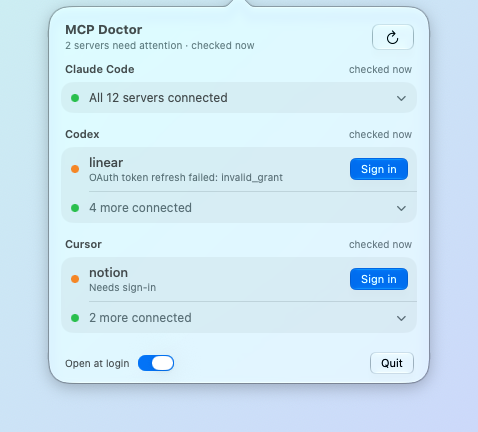
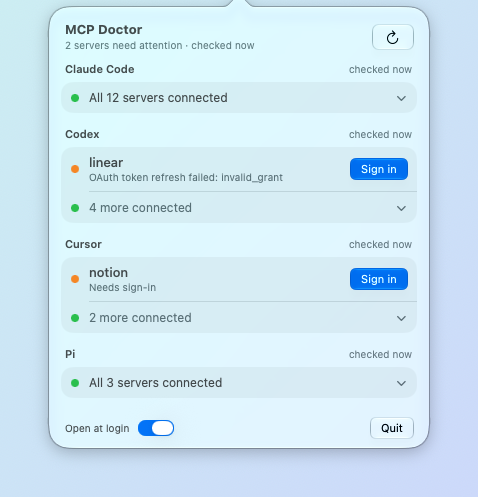
Add Pi as a harness
Pi (`pi`, @earendil-works/pi-coding-agent) has built-in MCP support, so
its servers belong in the panel next to Claude Code, Codex and Cursor.

The adapter reads `~/.pi/agent/mcp.json` (or `PI_CODING_AGENT_DIR`), checks
health with `pi mcp list --json`, and signs in with `pi mcp login <name>`,
which finishes on the browser callback without a terminal. The list exits
with status 1 whenever a server isn't connected, so its JSON is read
regardless of the exit status. Servers with their own Authorization
header don't offer sign-in, since Pi only uses OAuth without one.

diff --git a/Tests/MCPDoctorCoreTests/AdapterParsingTests.swift b/Tests/MCPDoctorCoreTests/AdapterParsingTests.swift
@@ -149,3 +149,122 @@ import Testing
         #expect(adapter.authFileURL.path == "/Users/jane.doe/.cursor/projects/Users-jane-doe/mcp-auth.json")
     }
 }
+
+@Suite struct PiParsingTests {
+    @Test func parsesList() throws {
+        let json = """
+        {"servers":[
+          {"name":"assistant","scope":"global","source":"/Users/me/.pi/agent/mcp.json","enabled":true,
+           "exposure":"deferred","transport":"https://assistant.example.com/mcp","state":"needs-auth","tools":[]},
+          {"name":"database","scope":"global","enabled":true,"exposure":"deferred",
+           "transport":"~/.pi/agent/bin/db-mcp.sh","state":"connected","tools":[{"name":"query"}]},
+          {"name":"logs","enabled":true,"transport":"https://logs.example.com/mcp","state":"failed",
+           "tools":[],"error":"MCP HTTP request failed with status 503: no healthy upstream"},
+          {"name":"code","enabled":true,"transport":"https://code.example.com/mcp","state":"connected","tools":[]},
+          {"name":"old","enabled":false,"transport":"npx old-mcp","state":"disconnected","tools":[]}
+        ],"errors":[]}
+        """
+        let list = try #require(PiAdapter.parseList(Data(json.utf8)))
+        let servers = list.servers
+        #expect(servers.map(\.name) == ["assistant", "database", "logs", "code", "old"])
+        #expect(servers.map(\.status) == [.needsAuth, .ok, .failed, .ok, .disabled])
+        #expect(servers.map(\.transport) == [.http, .stdio, .http, .http, .stdio])
+        #expect(servers[1].target == "~/.pi/agent/bin/db-mcp.sh")
+        #expect(servers[2].detail == "MCP HTTP request failed with status 503: no healthy upstream")
+        #expect(servers.map(\.canSignIn) == [true, false, false, false, false])
+        #expect(list.errors.isEmpty)
+    }
+
+    @Test(arguments: [
+        ("connected", nil, ServerStatus.ok),
+        ("needs-auth", nil, .needsAuth),
+        ("failed", "HTTP 401 Unauthorized", .needsAuth),
+        ("failed", "spawn ENOENT", .failed),
+        ("connecting", nil, .unknown),
+        ("closed", nil, .unknown),
+    ])
+    func parsesState(state: String, error: String?, expected: ServerStatus) {
+        let entry = PiAdapter.ListResponse.Entry(name: "x", enabled: true, transport: nil, state: state, error: error)
+        #expect(PiAdapter.status(for: entry).0 == expected)
+    }
+
+    @Test func rejectsTextOutput() {
+        #expect(PiAdapter.parseList(Data("error: unknown command 'mcp'\n".utf8)) == nil)
+    }
+
+    @Test func readsConfigAndSkipsHeaderAuth() async throws {
+        let home = FileManager.default.temporaryDirectory.appending(path: UUID().uuidString)
+        let agent = home.appending(path: ".pi/agent")
+        try FileManager.default.createDirectory(at: agent, withIntermediateDirectories: true)
+        defer { try? FileManager.default.removeItem(at: home) }
+        let config = """
+        {"mcpServers":{
+          "assistant":{"url":"https://assistant.example.com/mcp"},
+          "code":{"url":"https://code.example.com/mcp","headers":{"Authorization":"!echo Bearer $(gh auth token)"}},
+          "database":{"command":"~/.pi/agent/bin/db-mcp.sh","enabled":false}
+        }}
+        """
+        try Data(config.utf8).write(to: agent.appending(path: "mcp.json"))
+        let adapter = PiAdapter(home: home, environment: [:])
+        let servers = await adapter.configuredServers(env: ShellEnvironment(variables: [:]))
+        #expect(servers.map(\.name) == ["assistant", "code", "database"])
+        #expect(servers.map(\.canSignIn) == [true, false, false])
+        #expect(servers.map(\.enabled) == [true, true, false])
+        #expect(servers[2].transport == .stdio)
+    }
+
+    @Test func followsAgentDirectoryOverride() {
+        let home = URL(fileURLWithPath: "/Users/jane.doe")
+        #expect(PiAdapter(home: home, environment: [:]).authFileURL.path == "/Users/jane.doe/.pi/agent/mcp-auth.json")
+        let custom = PiAdapter(home: home, environment: ["PI_CODING_AGENT_DIR": "~/pi-work"])
+        #expect(custom.configURL.path == "/Users/jane.doe/pi-work/mcp.json")
+        let absolute = PiAdapter(home: home, environment: ["PI_CODING_AGENT_DIR": "/opt/pi"])
+        #expect(absolute.signInFiles.map(\.path) == ["/opt/pi/mcp-auth.json"])
+    }
+
+    /// `pi mcp list` exits with status 1 whenever a server isn't connected; the JSON still counts.
+    @Test func deepCheckReadsJSONDespiteFailureStatus() async throws {
+        let bin = FileManager.default.temporaryDirectory.appending(path: UUID().uuidString)
+        try FileManager.default.createDirectory(at: bin, withIntermediateDirectories: true)
+        defer { try? FileManager.default.removeItem(at: bin) }
+        let script = """
+        #!/bin/sh
+        echo '{"servers":[{"name":"assistant","enabled":true,"transport":"https://a.example.com/mcp","state":"needs-auth","tools":[]}],"errors":[]}'
+        exit 1
+        """
+        FileManager.default.createFile(atPath: bin.appending(path: "pi").path, contents: Data(script.utf8), attributes: [.posixPermissions: 0o755])
+        let adapter = PiAdapter(home: bin, environment: [:])
+        let check = try await adapter.deepCheck(env: ShellEnvironment(variables: ["PATH": bin.path]))
+        #expect(check.servers.map(\.status) == [.needsAuth])
+    }
+
+    @Test func deepCheckExplainsOldVersions() async throws {
+        let bin = FileManager.default.temporaryDirectory.appending(path: UUID().uuidString)
+        try FileManager.default.createDirectory(at: bin, withIntermediateDirectories: true)
+        defer { try? FileManager.default.removeItem(at: bin) }
+        let script = "#!/bin/sh\necho \"error: unknown command 'mcp'\" >&2\nexit 1\n"
+        FileManager.default.createFile(atPath: bin.appending(path: "pi").path, contents: Data(script.utf8), attributes: [.posixPermissions: 0o755])
+        let adapter = PiAdapter(home: bin, environment: [:])
+        await #expect(throws: AdapterError.self) {
+            try await adapter.deepCheck(env: ShellEnvironment(variables: ["PATH": bin.path]))
+        }
+        let message = Compatibility.explain("error: unknown command 'mcp'", harness: .pi, action: "report MCP server status")
+        #expect(message.contains("Update Pi"))
+    }
+
+    @Test func signsInWithPiMCPLogin() throws {
+        let bin = FileManager.default.temporaryDirectory.appending(path: UUID().uuidString)
+        try FileManager.default.createDirectory(at: bin, withIntermediateDirectories: true)
+        defer { try? FileManager.default.removeItem(at: bin) }
+        let pi = bin.appending(path: "pi")
+        FileManager.default.createFile(atPath: pi.path, contents: Data("#!/bin/sh\n".utf8), attributes: [.posixPermissions: 0o755])
+        let home = URL(fileURLWithPath: "/Users/jane.doe")
+        let server = MCPServer(harness: .pi, name: "assistant", transport: .http, status: .needsAuth, canSignIn: true)
+        let invocation = try #require(
+            PiAdapter(home: home, environment: [:]).signInInvocation(for: server, env: ShellEnvironment(variables: ["PATH": bin.path]))
+        )
+        #expect(invocation.arguments == ["mcp", "login", "assistant"])
+        #expect(invocation.workingDirectory == home)
+        #expect(!invocation.needsTerminal)
+    }
+}

diff --git a/Sources/MCPDoctorCore/Adapters/PiAdapter.swift b/Sources/MCPDoctorCore/Adapters/PiAdapter.swift
@@ -1,0 +1,141 @@
+import Foundation
+
+/// Pi (`pi` CLI, `@earendil-works/pi-coding-agent`).
+///
+/// - Config: `~/.pi/agent/mcp.json`, or `$PI_CODING_AGENT_DIR/mcp.json` when that's set.
+/// - Health: `pi mcp list --json` (~3 s). Pi connects to every enabled server, refreshing tokens
+///   itself, and prints each server's state. It exits with status 1 whenever a server isn't
+///   connected, so the JSON on stdout is read regardless of the exit status.
+/// - Sign-in: `pi mcp login <name>`. Without a terminal it opens the browser and finishes on the
+///   browser's callback, so it runs in the background like the other harnesses.
+public struct PiAdapter: HarnessAdapter {
+    public let harness = Harness.pi
+    public let home: URL
+    let agentDirectory: URL
+
+    public init(home: URL, environment: [String: String] = ProcessInfo.processInfo.environment) {
+        self.home = home
+        agentDirectory = Self.agentDirectory(home: home, environment: environment)
+    }
+
+    static func agentDirectory(home: URL, environment: [String: String]) -> URL {
+        guard let custom = environment["PI_CODING_AGENT_DIR"], !custom.isEmpty else {
+            return home.appending(path: ".pi/agent")
+        }
+        if custom == "~" { return home }
+        if custom.hasPrefix("~/") { return home.appending(path: String(custom.dropFirst(2))) }
+        return URL(fileURLWithPath: custom)
+    }
+
+    var configURL: URL { agentDirectory.appending(path: "mcp.json") }
+    var authFileURL: URL { agentDirectory.appending(path: "mcp-auth.json") }
+
+    public var watchedFiles: [URL] { [configURL] }
+    public var signInFiles: [URL] { [authFileURL] }
+
+    public func configuredServers(env: ShellEnvironment) async -> [ConfiguredServer] {
+        // The CLI runs with the login-shell environment, which may point Pi elsewhere.
+        let directory = env.variables["PI_CODING_AGENT_DIR"] == nil
+            ? agentDirectory
+            : Self.agentDirectory(home: home, environment: env.variables)
+        let config = directory.appending(path: "mcp.json")
+        guard let servers = JSONFile.object(at: config)?["mcpServers"] as? [String: Any] else { return [] }
+        return servers.keys.sorted().compactMap { name in
+            guard let entry = servers[name] as? [String: Any] else { return nil }
+            let url = entry["url"] as? String
+            let headers = entry["headers"] as? [String: Any] ?? [:]
+            return ConfiguredServer(
+                name: name,
+                transport: url == nil ? .stdio : .http,
+                target: url ?? entry["command"] as? String,
+                enabled: (entry["enabled"] as? Bool) != false,
+                canSignIn: url != nil && !Self.hasAuthorizationHeader(headers)
+            )
+        }
+    }
+
+    public func deepCheck(env: ShellEnvironment) async throws -> DeepCheck {
+        let executable = try requireExecutable(env)
+        let startedAt = Date.now
+        let result = await CommandRunner.run(
+            executable,
+            arguments: ["mcp", "list", "--json"],
+            environment: env.variables,
+            workingDirectory: home,
+            timeout: 90,
+            qualityOfService: .background
+        )
+        if result.launchError != nil || result.timedOut {
+            throw AdapterError.commandFailed(result.failureSummary)
+        }
+        guard let list = Self.parseList(result.stdout) else {
+            if !result.succeeded, !result.output.contains("{") {
+                throw AdapterError.commandFailed(result.failureSummary)
+            }
+            throw AdapterError.unreadableOutput(harness: harness, command: "pi mcp list --json")
+        }
+        if list.servers.isEmpty, let configError = list.errors.first {
+            throw AdapterError.commandFailed(configError)
+        }
+        return DeepCheck(servers: list.servers, startedAt: startedAt)
+    }
+
+    /// Pi signs in with OAuth only when the server has no `Authorization` header of its own.
+    static func hasAuthorizationHeader(_ headers: [String: Any]) -> Bool {
+        headers.keys.contains { $0.lowercased() == "authorization" }
+    }
+
+    // MARK: - Parsing
+
+    struct ListResponse: Decodable {
+        struct Entry: Decodable {
+            let name: String
+            let enabled: Bool?
+            /// The URL of an HTTP server, or the command of a stdio server.
+            let transport: String?
+            let state: String?
+            let error: String?
+        }
+
+        let servers: [Entry]
+        let errors: [String]?
+    }
+
+    static func parseList(_ data: Data) -> (servers: [CheckedServer], errors: [String])? {
+        guard let list = try? JSONDecoder().decode(ListResponse.self, from: data) else { return nil }
+        let servers = list.servers.map { entry in
+            let isHTTP = entry.transport.map { $0.hasPrefix("http://") || $0.hasPrefix("https://") } ?? false
+            let (status, detail) = status(for: entry)
+            return CheckedServer(
+                name: entry.name,
+                transport: isHTTP ? .http : .stdio,
+                target: entry.transport,
+                status: status,
+                detail: detail,
+                // The list doesn't say whether a server uses OAuth or its own headers; mcp.json
+                // does. Only a server Pi says needs sign-in is known to use OAuth.
+                canSignIn: isHTTP && entry.state == "needs-auth"
+            )
+        }
+        return (servers, list.errors ?? [])
+    }
+
+    /// Pi's states: `connecting`, `connected`, `disconnected`, `needs-auth`, `failed` and `closed`.
+    static func status(for entry: ListResponse.Entry) -> (ServerStatus, String?) {
+        if entry.enabled == false || entry.state == "disabled" { return (.disabled, "Disabled in Pi") }
+        switch entry.state {
+        case "connected":
+            return (.ok, nil)
+        case "needs-auth":
+            return (.needsAuth, entry.error)
+        case "failed":
+            let detail = entry.error ?? "Failed to connect"
+            let lowered = detail.lowercased()
+            let authFailure = ["unauthorized", "401", "invalid_grant", "invalid_token", "oauth"]
+                .contains { lowered.contains($0) }
+            return (authFailure ? .needsAuth : .failed, detail)
+        default:
+            return (.unknown, entry.error ?? entry.state.map { "Pi reported \($0)" })
+        }
+    }
+}

diff --git a/Sources/MCPDoctorCore/Models.swift b/Sources/MCPDoctorCore/Models.swift
@@ -4,12 +4,14 @@ public enum Harness: String, CaseIterable, Sendable {
     case claudeCode = "claude-code"
     case codex
     case cursor
+    case pi
 
     public var displayName: String {
         switch self {
         case .claudeCode: "Claude Code"
         case .codex: "Codex"
         case .cursor: "Cursor"
+        case .pi: "Pi"
         }
     }
 
@@ -18,6 +20,7 @@ public enum Harness: String, CaseIterable, Sendable {
         case .claudeCode: "claude"
         case .codex: "codex"
         case .cursor: "cursor-agent"
+        case .pi: "pi"
         }
     }
 
@@ -27,6 +30,7 @@ public enum Harness: String, CaseIterable, Sendable {
         case .claudeCode: "2.1.310"
         case .codex: "0.164.0"
         case .cursor: "2026.10.19"
+        case .pi: "1.5.0"
         }
     }
 }

diff --git a/Sources/MCPDoctor/Demo.swift b/Sources/MCPDoctor/Demo.swift
@@ -39,6 +39,9 @@ extension Doctor {
                 DemoAdapter(harness: .cursor, servers: [
                     .http("notion", status: .needsAuth), .http("github"), .stdio("figma"),
                 ]),
+                DemoAdapter(harness: .pi, servers: [
+                    .http("github"), .http("sentry"), .stdio("playwright"),
+                ]),
             ],
             environment: ShellEnvironment(variables: [:])
         )

diff --git a/Sources/MCPDoctorCore/Doctor.swift b/Sources/MCPDoctorCore/Doctor.swift
@@ -47,6 +47,7 @@ public actor Doctor {
             ClaudeCodeAdapter(home: home),
             CodexAdapter(home: home),
             CursorAdapter(home: home),
+            PiAdapter(home: home),
         ])
     }
 

diff --git a/Sources/MCPDoctor/Scheduler.swift b/Sources/MCPDoctor/Scheduler.swift
@@ -27,6 +27,7 @@ final class Scheduler {
         case .claudeCode: 15 * 60
         case .codex: 10 * 60
         case .cursor: 15 * 60
+        case .pi: 15 * 60
         }
     }
 

diff --git a/README.md b/README.md
@@ -2,18 +2,18 @@
 
 # MCP Doctor
 
-A macOS menu bar app that tells you when an MCP server in Claude Code, Codex or Cursor needs you
-to sign in again, before an agent finds out halfway through a thread. It lets you sign in from the
-menu bar.
+A macOS menu bar app that tells you when an MCP server in Claude Code, Codex, Cursor or Pi needs
+you to sign in again, before an agent finds out halfway through a thread. It lets you sign in from
+the menu bar.
 
 - The icon turns orange and shows a count when something needs attention.
-- The panel always lists Claude Code, Codex and Cursor, so you can tell "all good" from "not
+- The panel always lists Claude Code, Codex, Cursor and Pi, so you can tell "all good" from "not
   checked". Problems come first with a **Sign in** button; a summary row such as "All 21 servers
   connected" expands to show the rest.
 - Organisation-provisioned claude.ai connectors that have never worked on this Mac are collapsed
   and don't count. Any server can be muted from its context menu.
 
-<p align="center"><img src="docs/screenshot.png" width="478" alt="The MCP Doctor panel: Claude Code all connected, one Codex and one Cursor server needing sign-in"></p>
+<p align="center"><img src="docs/screenshot.png" width="478" alt="The MCP Doctor panel: Claude Code and Pi all connected, one Codex and one Cursor server needing sign-in"></p>
 
 ## Requirements
 
@@ -26,6 +26,7 @@ menu bar.
 | Claude Code | 2.1.310 | `claude mcp list` and `claude mcp login` |
 | Codex CLI | 0.164.0 | `codex app-server` with `mcpServerStatus/list`, and `codex mcp login` |
 | Cursor CLI (`cursor-agent`) | 2026.10.19 | `cursor-agent mcp list` and `cursor-agent mcp login` |
+| Pi (`pi`, `@earendil-works/pi-coding-agent`) | 1.5.0 | `pi mcp list --json` and `pi mcp login` |
 
 Older versions may lack some of these. When that happens, the panel says which harness to update
 instead of showing a raw error.
@@ -53,9 +54,10 @@ model, so it uses none of your plan's usage.
 | Claude Code | `claude mcp list` (~6 s) | watches `~/.claude.json` and `~/.claude/mcp-needs-auth-cache.json`; reads token expiry from the `Claude Code-credentials` Keychain item | `claude mcp login <name>` |
 | Codex | `codex app-server` → `mcpServerStatus/list` (~2 s) | watches `~/.codex/config.toml` | `codex mcp login <name>` |
 | Cursor | `cursor-agent mcp list` (~2.5 s), run from your home folder | watches `~/.cursor/mcp.json` and the token file | `cursor-agent mcp login <name>` |
+| Pi | `pi mcp list --json` (~3 s) | watches `~/.pi/agent/mcp.json` and `mcp-auth.json` (or the folder in `PI_CODING_AGENT_DIR`) | `pi mcp login <name>`, which finishes in the browser |
 
-Checks run one at a time at background priority: Codex every 10 minutes, Cursor and Claude Code
-every 15. Claude Code's check runs with larger connection batches
+Checks run one at a time at background priority: Codex every 10 minutes, Cursor, Pi and Claude
+Code every 15. Claude Code's check runs with larger connection batches
 (`MCP_SERVER_CONNECTION_BATCH_SIZE`), which cuts it from ~24 s to ~6 s with ~60 servers. Checks
 also run after wake, when the network comes back, and when you open the panel with stale data.
 Config changes are picked up within seconds. Checks pause while offline, and intervals double in
@@ -78,13 +80,14 @@ Terminal**.
 ## Known limitations
 
 - **Only servers available everywhere are checked.** Checks run from your home folder, so servers
-  configured for a single project (a repo's `.mcp.json` or `.cursor/mcp.json`, or Claude Code's
-  per-project servers) aren't listed.
+  configured for a single project (a repo's `.mcp.json`, `.cursor/mcp.json` or `.pi/mcp.json`,
+  or Claude Code's per-project servers) aren't listed. Pi servers that an extension registers for
+  one session aren't listed either.
 - **Cursor answers differently per folder.** In folders where `cursor-agent` has never run, it
   reports OAuth servers as needing sign-in even when your saved login works. MCP Doctor checks from
   your home folder.
 - **Claude Code and Cursor are read from their text output.** A new version that changes the
-  format will show "Couldn't read the output" until the parser is updated. Codex returns JSON.
+  format will show "Couldn't read the output" until the parser is updated. Codex and Pi return JSON.
 - **Some servers don't issue refresh tokens.** Their sign-in lasts as long as one access token, so
   they will keep coming back. That needs fixing on the server.
 
